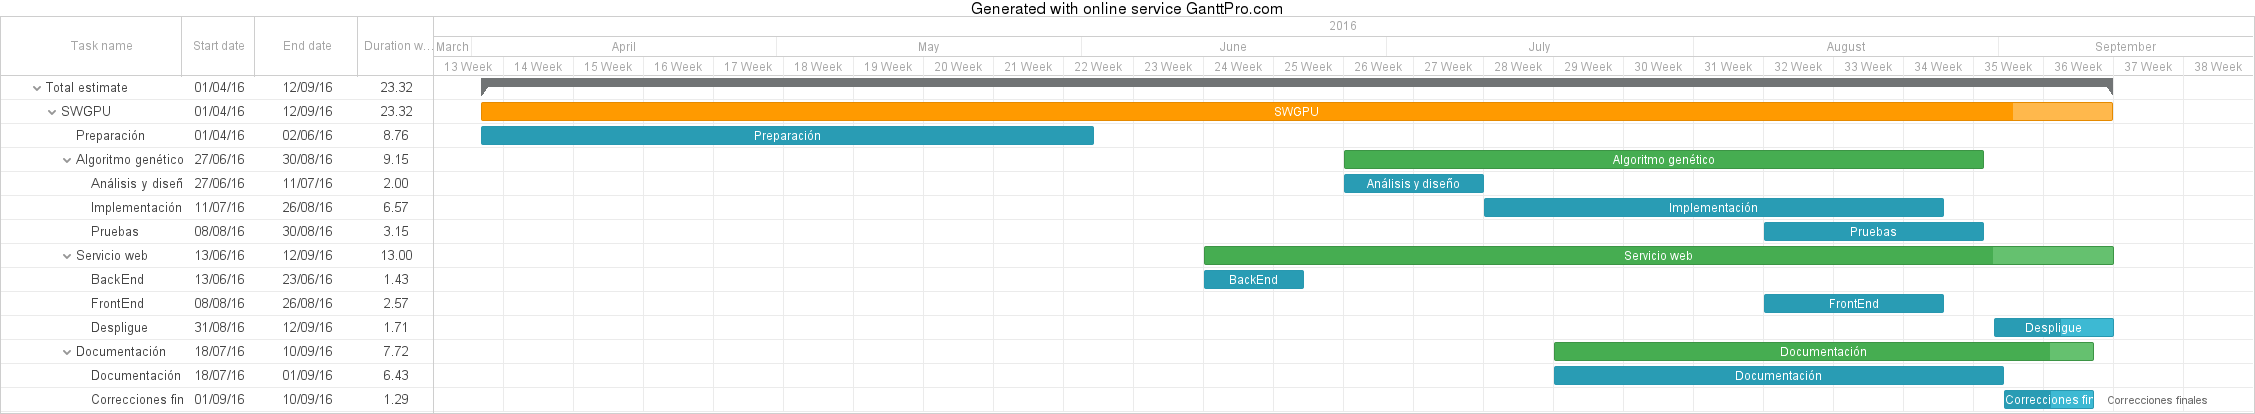
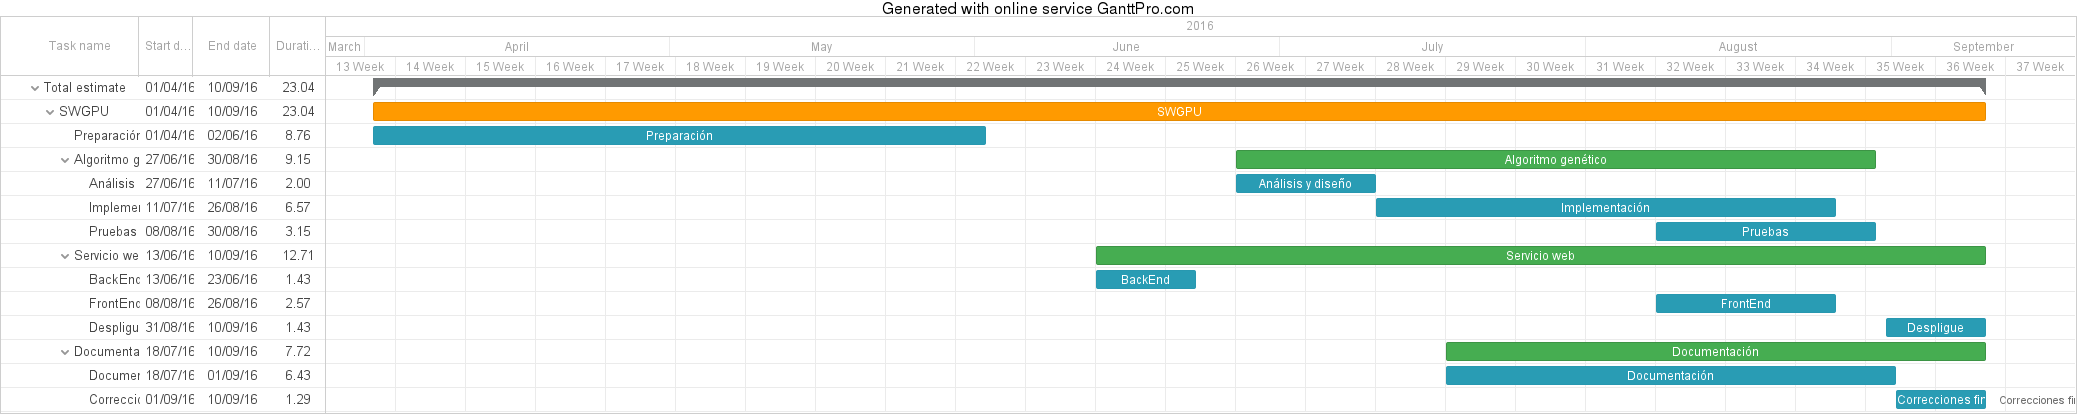
Se actualiza 'planificación' de #4.

diff --git a/text/chapters/04_Resolucion_trabajo.tex b/text/chapters/04_Resolucion_trabajo.tex
@@ -36,9 +36,6 @@ A continuación se muestra mediante un diagrama de Gantt la planificación estim
 Y en la siguiente figura se ve el desarrollo que se a producido, tras desviaciones imprevistas o ajustes de tiempo durante el mismo proceso:
 
 
-(aproximación del diagrama de Gantt, pendiente la definitiva:)
-
-
 \bigskip
 \begin{figure}[h]
 	\centering
@@ -49,10 +46,9 @@ Y en la siguiente figura se ve el desarrollo que se a producido, tras desviacion
 
 
 \bigskip
-\subsection{Conteo de horas y presupuesto}
+\subsection{Conteo de horas}
 \bigskip
 
-\textbf{Conteo de horas}
 
 \begin{itemize}
 	
@@ -60,7 +56,7 @@ Y en la siguiente figura se ve el desarrollo que se a producido, tras desviacion
 		\begin{itemize}
 			\item Preparación: 
 	
-			8.75 semanas, a 3 días/semana, a 2 horas/día: 52.5 horas	
+			8,75 semanas, a 3 días/semana, a 2 horas/día: 52,5 horas	
 			
 			\item Desarrollo de algoritmo genético: 
 			
@@ -68,14 +64,14 @@ Y en la siguiente figura se ve el desarrollo que se a producido, tras desviacion
 
 			\item Desarrollo de servicio web: 
 			
-			7 semana, a 5 días/semana, a 2 horas/día: 70 horas
+			7 semanas, a 5 días/semana, a 2 horas/día: 70 horas
 			
 			\item Documentación: 
 			
-			8.29 semanas, a 4 días/semana, a 2 horas/día: 66.3 horas
+			8,29 semanas, a 4 días/semana, a 2 horas/día: 66,3 horas
 			
 			\bigskip			
-			\textbf{Con lo que se sumaría un total de 380.8 horas.}
+			\textbf{Con lo que se sumaría un total de 380,8 horas.}
 			
 		\end{itemize}
 	
@@ -83,31 +79,33 @@ Y en la siguiente figura se ve el desarrollo que se a producido, tras desviacion
 		\begin{itemize}
 			\item Preparación: 
 			
-			8.76 semanas, a  3 días/semana, a  2 horas/día:  52.5 horas
+			8,76 semanas, a  3 días/semana, a  2 horas/día:  52,56 horas
 			
 			\item Desarrollo de algoritmo genético: 
 			
-			9.15 semanas, a 4 días/semana, a 4 horas/día: 146.4 horas
+			11,72 semanas, a 4 días/semana, a 4 horas/día: 187,52 horas
 			
 			\item Desarrollo de servicio web: 
 			
-			?? semanas, a 5 días/semana, a 2 horas/día:  ?? horas
+			5,43 semanas, a 5 días/semana, a 2 horas/día:  54,2 horas
 			
 			\item Documentación: 
 			
-			?? semanas, a 4 días/semana, a 2 horas/día: ?? horas
+			7,72 semanas, a 4 días/semana, a 2 horas/día: 61,76 horas
 			
 			\bigskip			
-			\textbf{Sumando finalmente un total de ?? horas.}
+			\textbf{Sumando finalmente un total de 356,04 horas.}
 
 		\end{itemize}
 		
 \end{itemize}
 
 \bigskip
-\textbf{Presupuesto}
+\subsection{Presupuesto}
+\bigskip
 
-En este punto veremos los presupuesto según el conteo de horas para cada una de las 2 estimaciones y los servicios que requiramos. Suponiendo la media actual de un programador Junior \cite{sueldos}: 9\officialeuro/hora
+
+En este punto veremos los presupuesto según el conteo de horas para cada una de las 2 estimaciones y los servicios que requiramos (obviando el alquiler y mantenimiento del lugar de trabajo). Suponiendo la media actual de un programador Junior (Abril 2016) \cite{sueldos}: 11,25\officialeuro/hora
 
 
 \bigskip
@@ -117,30 +115,32 @@ En este punto veremos los presupuesto según el conteo de horas para cada una de
 	\begin{itemize}
 		\item Preparación: 
 		
-		52.5 horas x 9\officialeuro/hora : 472,5\officialeuro
+		52,5 horas x 11,25\officialeuro/hora : 590.62\officialeuro
 		
 		\item Desarrollo de algoritmo genético: 
 		
-		192 horas x 9\officialeuro/hora: 1728\officialeuro
+		192 horas x 11,25\officialeuro/hora: 2137.50\officialeuro
 		
 		\item Desarrollo de servicio web
 		
-		70 horas x 9\officialeuro/hora: 630\officialeuro
+		70 horas x 11,25\officialeuro/hora: 787.50\officialeuro
 		
 		\item Documentación: 
 
-		66.3 horas x 9\officialeuro/hora: 596,7\officialeuro
+		66,3 horas x 11,25\officialeuro/hora: 745.86\officialeuro
+		
+		\item Ordenador con el que trabajar: se optará por el modelo Acer Aspire V3 \cite{aceraspire}, que cuenta con una tarjeta gráfica GeForce 840M \cite{geforce840m} y que permitirá desarrollar y ejecutar algoritmos mediante CUDA 7.5.:  716\officialeuro
 		
 		\item \textit{Instancia que permita usar CUDA}
 		
-		Se contratarán servicios externos de cómputo mediante CUDA \cite{amazoncuda} con un coste de 1.88\officialeuro/h (2.10\textdollar/h). Suponiendo que este servicio estuviese en total disponibilidad (24 horas los 7 días de la semana) alcanzaría en sólo un mes de servicio los 315,84\officialeuro.
+		Se contratarán servicios externos de cómputo mediante CUDA \cite{amazoncuda} con un coste de 1,88\officialeuro/h (2,10\textdollar/h). Suponiendo que este servicio estuviese en total disponibilidad (24 horas los 7 días de la semana) alcanzaría en sólo un mes de servicio los 315,84\officialeuro.
 		
 		\item \textit{Dominio para alojar una web publica del servicio}
 		
-		En caso de que no fuese posible, se contrataría un dominio por precios de 2.08\officialeuro a 4.95\officialeuro al mes (con permanencia de 12 meses, en las webs de alojamiento \textit{Hostpapa.es} \cite{hostpapa} y \textit{Dondominio.com} \cite{dondominio})
+		En caso de que no fuese posible, se contrataría un dominio por precios de 2,08\officialeuro a 4,95\officialeuro al mes (con permanencia de 12 meses, en las webs de alojamiento \textit{Hostpapa.es} \cite{hostpapa} y \textit{Dondominio.com} \cite{dondominio}): 2,08\officialeuro
 		
 		\bigskip
-		\textbf{Presupuesto total estimado: 3745,12\officialeuro (para el desarrollo y sólo un mes en producción) }
+		\textbf{Presupuesto total estimado: 5.295,40\officialeuro (para el desarrollo y sólo un mes en producción) }
 		
 	\end{itemize}
 	
@@ -148,20 +148,22 @@ En este punto veremos los presupuesto según el conteo de horas para cada una de
 	\begin{itemize}
 		\item Preparación
 		
-		52.5 horas 9\officialeuro/hora
+		52,5 horas x 11,25\officialeuro/hora: 590,62\officialeuro
 		
 		\item Desarrollo de algoritmo genético
 		
-		146.4 horas 9\officialeuro/hora
+		187,52 horas x 11,25\officialeuro/hora: 2.109,6\officialeuro
 		
 		\item Desarrollo de servicio web
 		
-		?? x 9\officialeuro/hora
+		54,2 x 11,25\officialeuro/hora: 609,75\officialeuro
 		
 		\item Documentación
 
-		?? x 9\officialeuro/hora
+		61,76 x 11,25\officialeuro/hora: 694,8\officialeuro
 		
+		\item Ordenador Acer Aspire V3:  716\officialeuro
+				
 		\item \textit{Instancia que permita usar CUDA}
 		
 		En esta parte se aprovechará el servidor que ofrece la tutora del trabajo {\tutor}, con gran capacidad de cómputo y de manera gratuita. Esto ayudará de manera muy importante al trabajo, ya que reducirá de manera muy importante el presupuesto final del proyecto.
@@ -171,13 +173,13 @@ En este punto veremos los presupuesto según el conteo de horas para cada una de
 		Al igual que en el punto anterior, se aprovechará el servicio de la tutora para lanzar el servicio web, reduciendo también el presupuesto final.
 		
 		\bigskip
-		\textbf{Presupuesto total real: ? \officialeuro}
+		\textbf{Presupuesto total real: 4.720,77 \officialeuro}
 		
 	\end{itemize}
 
 \end{itemize}
 
-
+Al final se reduce algo el presupuesto respecto al estimado (de 5.295\officialeuro a 4.720\officialeuro), se producen varios cambios en la planificación y sobre todo se aprovecha el servidor ofrecido por la tutora.
 
 \newpage
 \section{Tecnologías}
